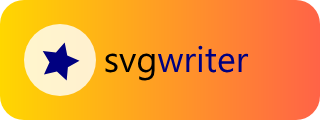
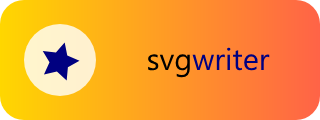
README badge title a little smaller and centred beside the circle

Changed region(s): [[0.3125, 0.375, 0.8438, 0.675]]

diff --git a/README.md b/README.md
@@ -19,7 +19,7 @@ import svgwriter as svg
 doc = svg.Document()                                    # sized to its content when saved or shown
 doc.rect(0, 0, 160, 60, rx=12, fill=svg.LinearGradient.horizontal("gold", "tomato"))
 doc.circle(30, 30, 18, fill=(1, 1, 1, 0.8))             # colors: names, CSS, or 0-1 tuples (alpha too)
-title = doc.text("svgwriter", x=88, y=36, font_size=18, text_anchor="middle")
+title = doc.text("svgwriter", x=104, y=35, font_size=15.3, text_anchor="middle")
 title[3:].fill = "navy"                                  # style a character range (becomes a <tspan>)
 
 star = svg.builder.star(0, 0, 10, points=5, fill="navy")
